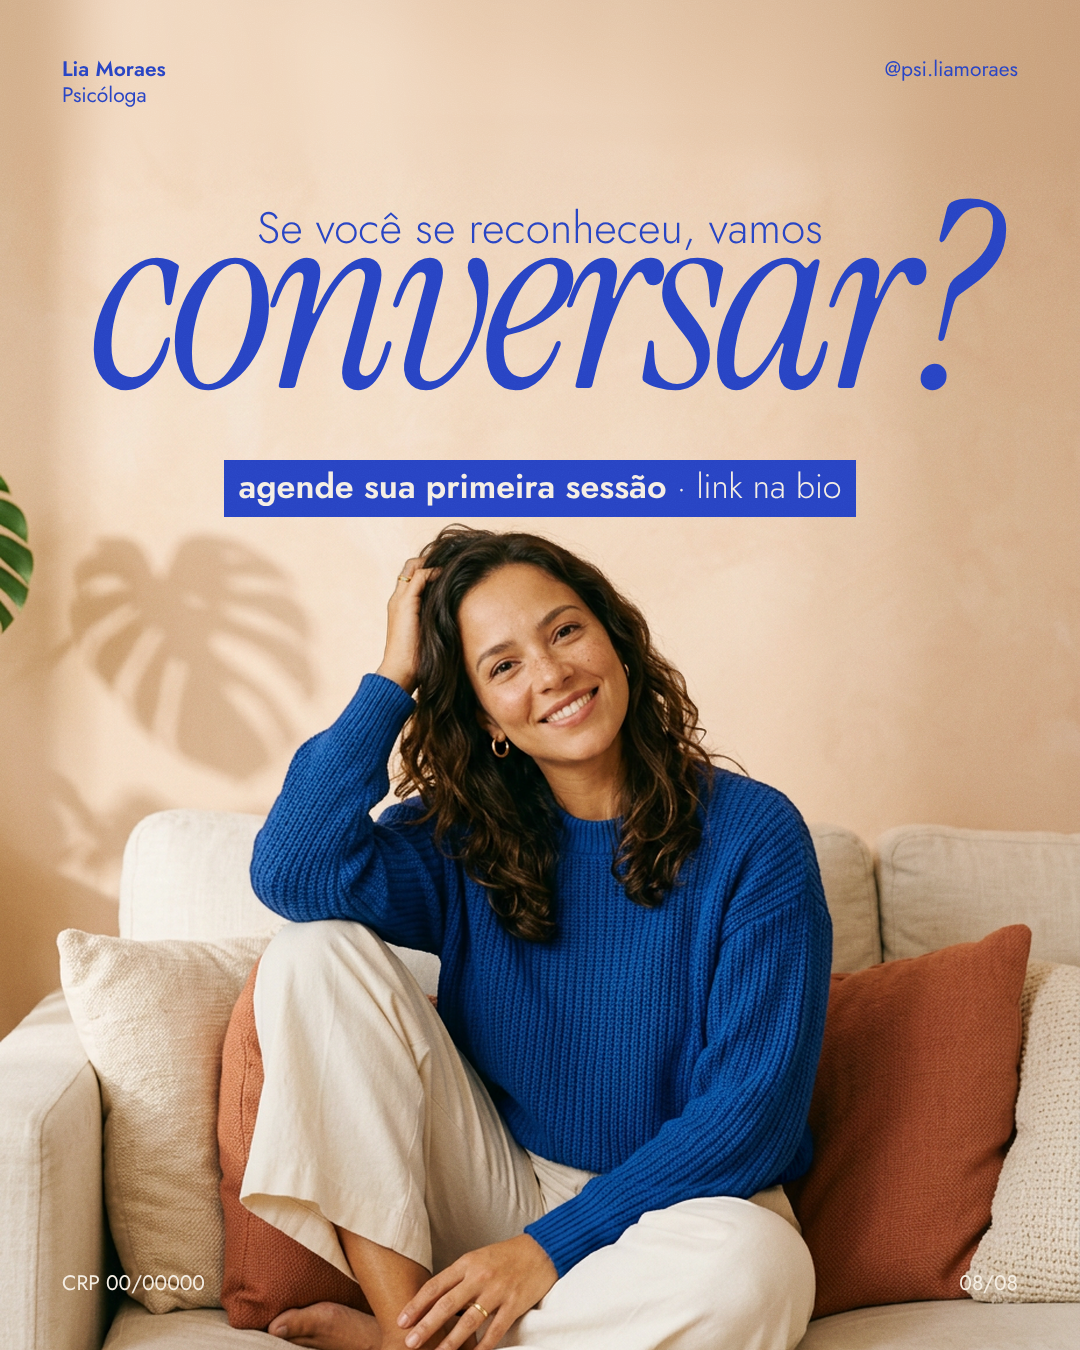
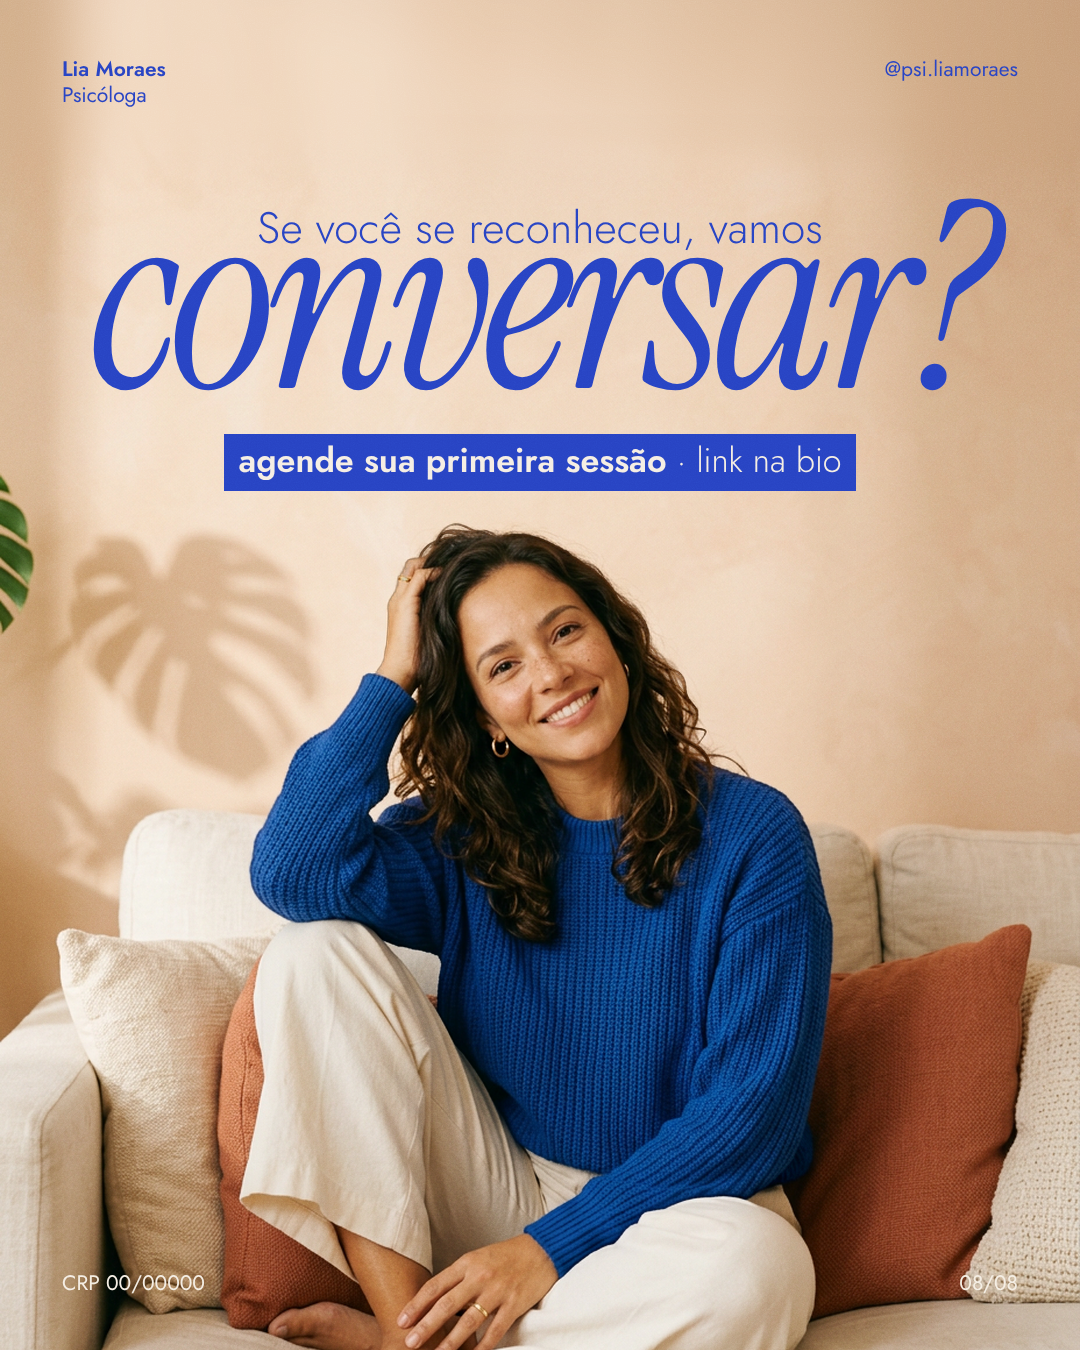
Lia Moraes: faixa do último slide um pouco mais alta
Claude-Session: https://claude.ai/code/session_01CmCiK8Gv7bd1khyaxwEQLc

Changed region(s): [[0.1833, 0.3111, 0.7944, 0.4044]]

diff --git a/psicologa-lia-moraes/projeto/posts/carrossel-v3.html b/psicologa-lia-moraes/projeto/posts/carrossel-v3.html
@@ -162,7 +162,7 @@ body{background:#777;padding:20px;display:flex;gap:20px;flex-wrap:wrap}
     <span class="js" style="font-size:44px">Se você se reconheceu, vamos</span>
     <span class="is" style="font-size:240px;margin-top:-66px" data-fit="900"><i>conversar?</i></span>
   </div>
-  <div class="abs cen js" style="top:462px;font-size:34px;z-index:6"><span class="faixa"><b>agende sua primeira sessão</b> · link na bio</span></div>
+  <div class="abs cen js" style="top:436px;font-size:34px;z-index:6"><span class="faixa"><b>agende sua primeira sessão</b> · link na bio</span></div>
   <img class="f" src="../fotos-pinterest/base/lia-sofa-v1-recorte-baixo.png" style="z-index:5">
   <div class="abs cen caps" style="bottom:110px;font-size:22px;color:var(--creme);z-index:6;opacity:0">.</div>
   <div class="canto bl" style="color:var(--creme);z-index:7">CRP 00/00000</div>
